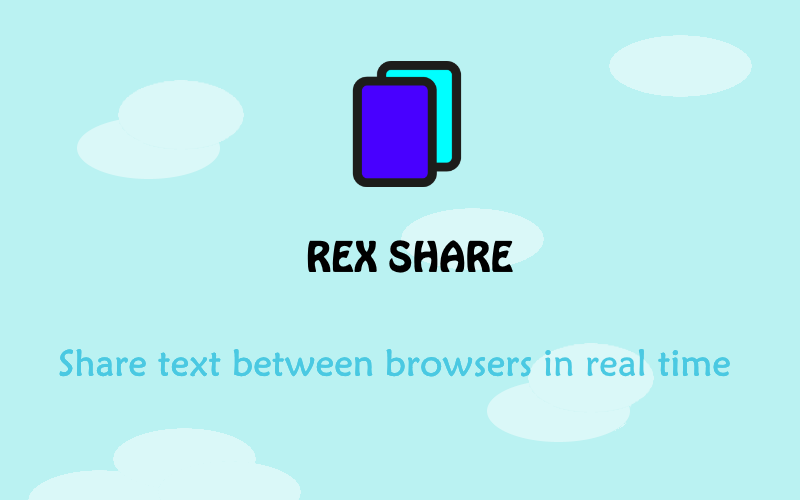
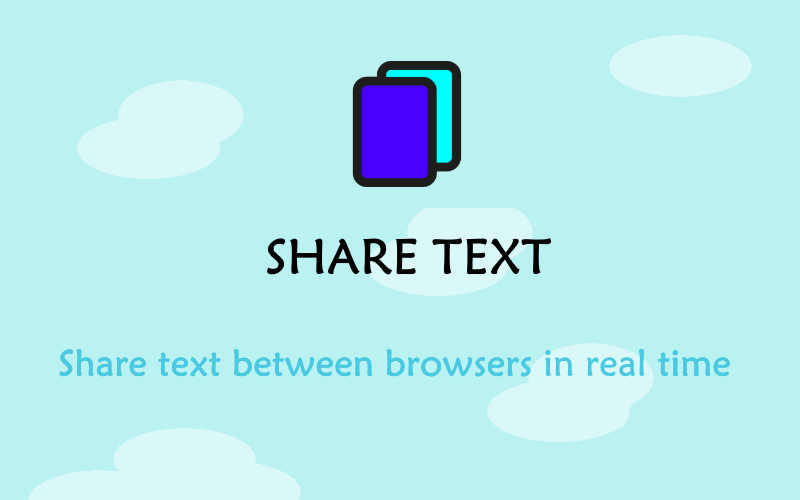
Changed the twitter card and app name to reflect the new domain sharetext.live

Changed region(s): [[0.3125, 0.39, 0.6875, 0.6], [0.625, 0.42, 0.6562, 0.45]]

diff --git a/server.js b/server.js
@@ -16,7 +16,7 @@ server.listen(PORT, () => console.log(`Listening on port ${PORT}`));
 const wss = new WebSocket.Server({ server });
 
 app.get('/', (req, res) => {
-	res.redirect('/global');
+	res.redirect('/default');
 });
 
 app.get('/:room', (req, res) => {
